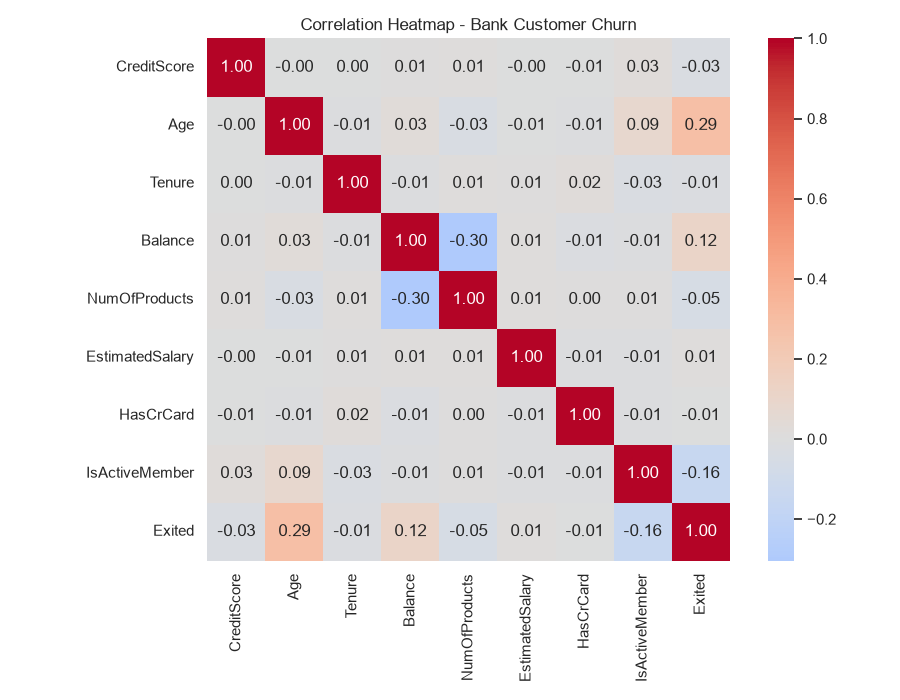
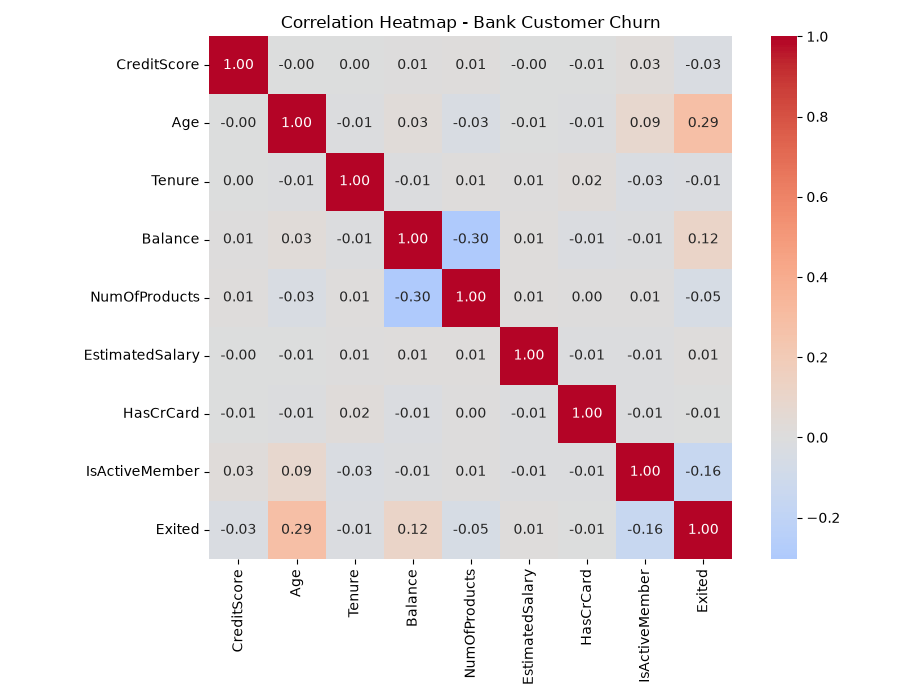
added correlation for numeric and category

diff --git a/tasks/eda_correlation.py b/tasks/eda_correlation.py
@@ -15,6 +15,7 @@ import matplotlib.pyplot as plt
 import pandas as pd
 import seaborn as sns
 from scipy import stats
+import numpy as np
 
 from tasks.config import (
     BINARY_FEATURES,
@@ -88,6 +89,66 @@ def chi_square_tests(df: pd.DataFrame) -> dict:
         results[column] = {"chi2": chi2, "p_value": p_value, "dof": dof, "conclusion": conclusion}
     return results
 
+def correlation_ratio(categories: pd.Series, measurements: pd.Series) -> float:
+    """
+    Correlation Ratio (eta) between a categorical and a continuous numeric feature.
+    eta = sqrt(SS_between / SS_total), bounded in [0, 1].
+    """
+    cat = categories.astype("category")
+    cat_means = measurements.groupby(cat, observed=False).mean()
+    cat_counts = measurements.groupby(cat, observed=False).count()
+    overall_mean = measurements.mean()
+    
+    ss_total = ((measurements - overall_mean) ** 2).sum()
+    ss_between = (cat_counts * ((cat_means - overall_mean) ** 2)).sum()
+    
+    return float(np.sqrt(ss_between / ss_total)) if ss_total > 0 else 0.0
+
+
+def numeric_categorical_correlations(df: pd.DataFrame) -> dict:
+    """Compute correlation coefficients between continuous numeric and categorical features."""
+    results = {}
+    cat_cols = CATEGORICAL_FEATURES + BINARY_FEATURES
+    
+    for num_col in NUMERIC_FEATURES:
+        results[num_col] = {}
+        for cat_col in cat_cols:
+            eta = correlation_ratio(df[cat_col], df[num_col])
+            results[num_col][cat_col] = round(eta, 4)
+            logger.info("Correlation Ratio eta(%s [Numeric], %s [Categorical]) = %.4f", num_col, cat_col, eta)
+            
+            # Point-Biserial correlation for 2-class binary/categorical columns
+            if df[cat_col].nunique() == 2:
+                mapping = {val: idx for idx, val in enumerate(df[cat_col].unique())}
+                r_pb, p_val = stats.pointbiserialr(df[cat_col].map(mapping), df[num_col])
+                logger.info("  -> Point-Biserial r(%s, %s) = %.4f (p=%.4g)", num_col, cat_col, r_pb, p_val)
+                
+    return results
+
+def save_numeric_categorical_heatmap(df: pd.DataFrame, filename: str = "correlation_heatmap_num_cat.png") -> str:
+    """Compute Correlation Ratio (eta) between numeric and categorical features and save as a heatmap."""
+    cat_cols = CATEGORICAL_FEATURES + BINARY_FEATURES + [TARGET]
+    matrix = pd.DataFrame(index=NUMERIC_FEATURES, columns=cat_cols, dtype=float)
+
+    for num_col in NUMERIC_FEATURES:
+        for cat_col in cat_cols:
+            cat = df[cat_col].astype("category")
+            cat_means = df[num_col].groupby(cat, observed=False).mean()
+            cat_counts = df[num_col].groupby(cat, observed=False).count()
+            overall_mean = df[num_col].mean()
+            ss_total = ((df[num_col] - overall_mean) ** 2).sum()
+            ss_between = (cat_counts * ((cat_means - overall_mean) ** 2)).sum()
+            matrix.loc[num_col, cat_col] = np.sqrt(ss_between / ss_total) if ss_total > 0 else 0.0
+
+    plt.figure(figsize=(8, 6))
+    sns.heatmap(matrix, annot=True, fmt=".2f", cmap="YlGnBu", vmin=0, vmax=1)
+    plt.title("Correlation Ratio (η) Heatmap (Numeric vs Categorical)")
+    plt.tight_layout()
+    path = OUTPUT_DIR / filename
+    plt.savefig(path)
+    plt.close()
+    logger.info("Saved numeric-categorical heatmap to %s", path)
+    return str(path)
 
 def run() -> dict:
     """Entry point used both standalone and by the DataOps flow."""
@@ -96,7 +157,9 @@ def run() -> dict:
     save_heatmap(corr)
     pearson = pearson_pair(df)
     chi_square = chi_square_tests(df)
-    return {"pearson": pearson, "chi_square": chi_square}
+    numeric_cat_corr = numeric_categorical_correlations(df)
+    save_numeric_categorical_heatmap(df)
+    return {"pearson": pearson, "chi_square": chi_square, "numeric_categorical": numeric_cat_corr}
 
 
 if __name__ == "__main__":
